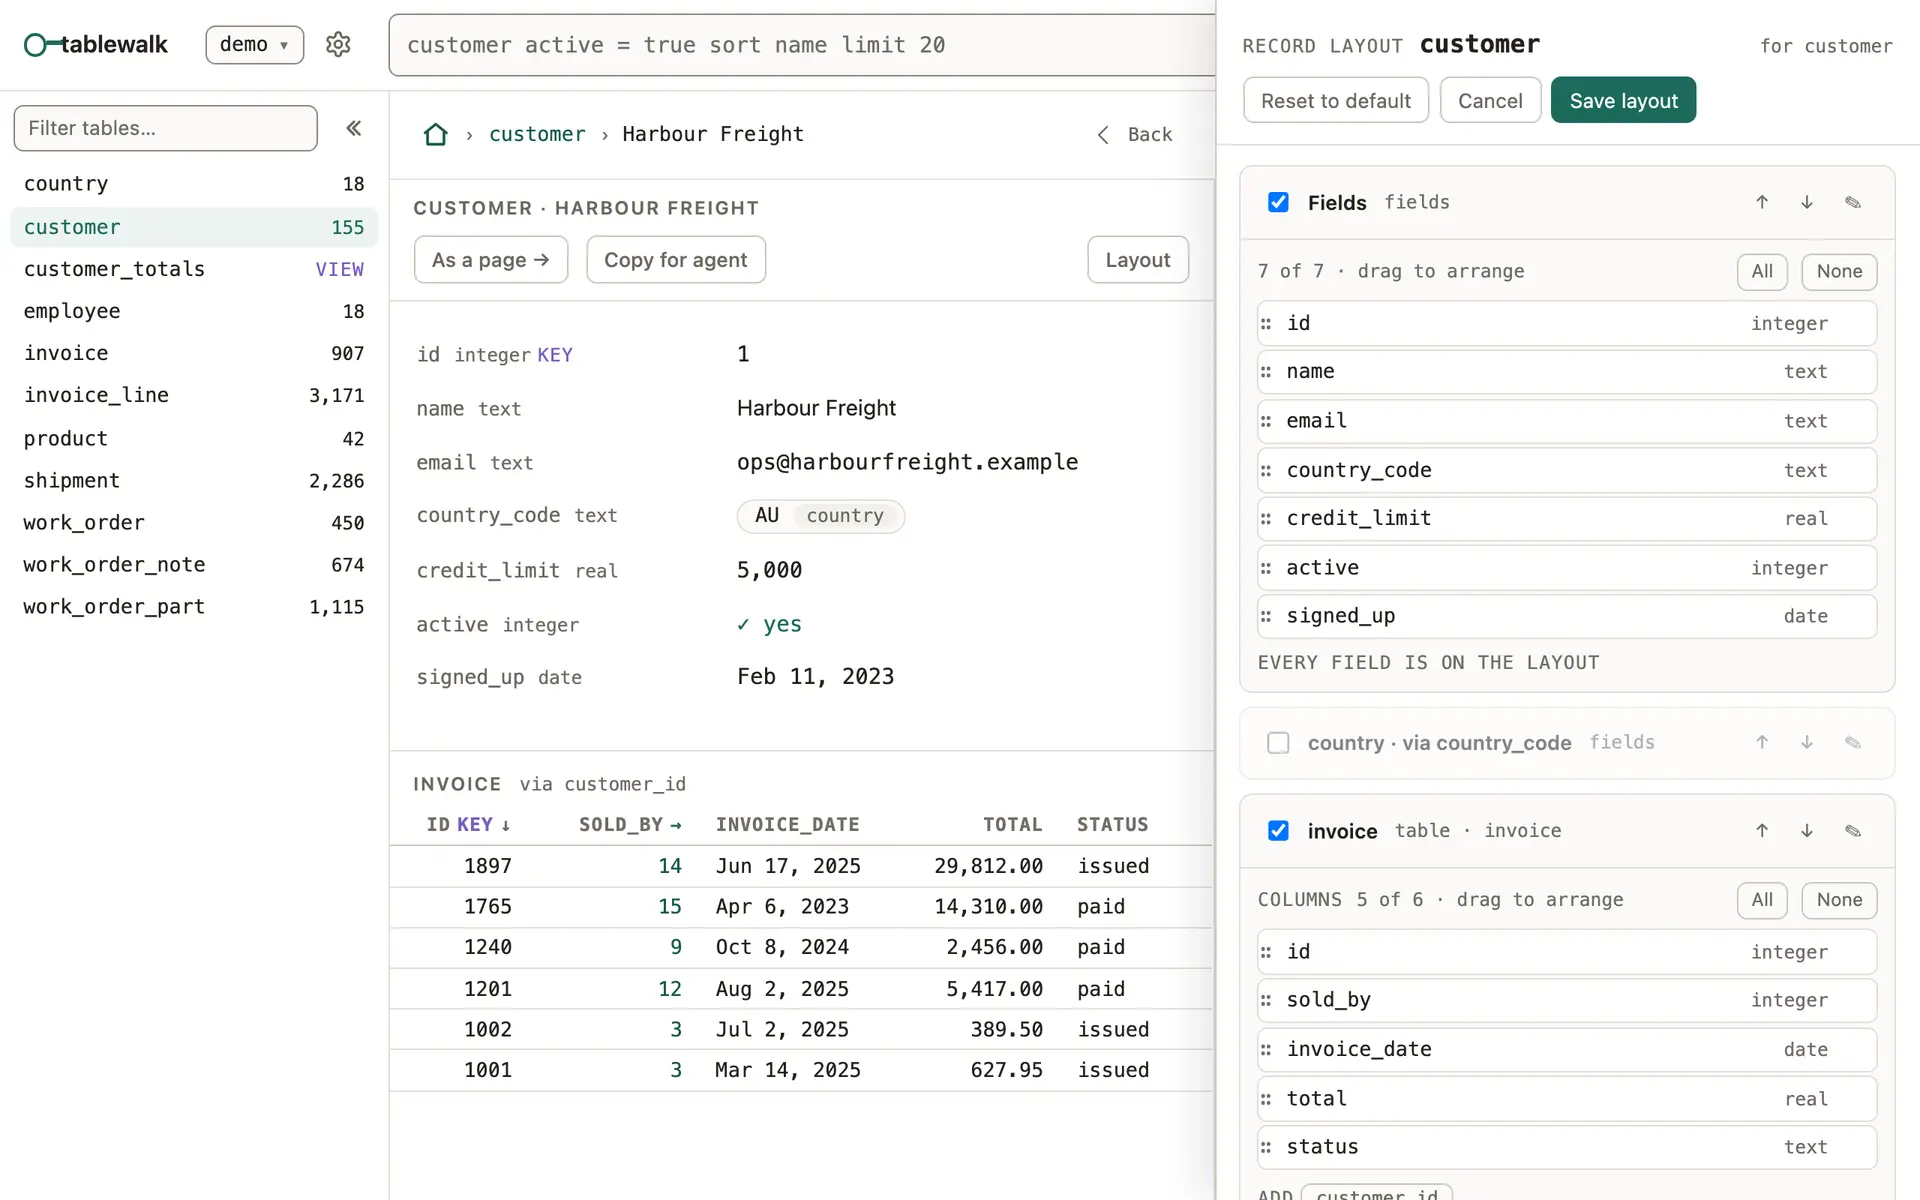
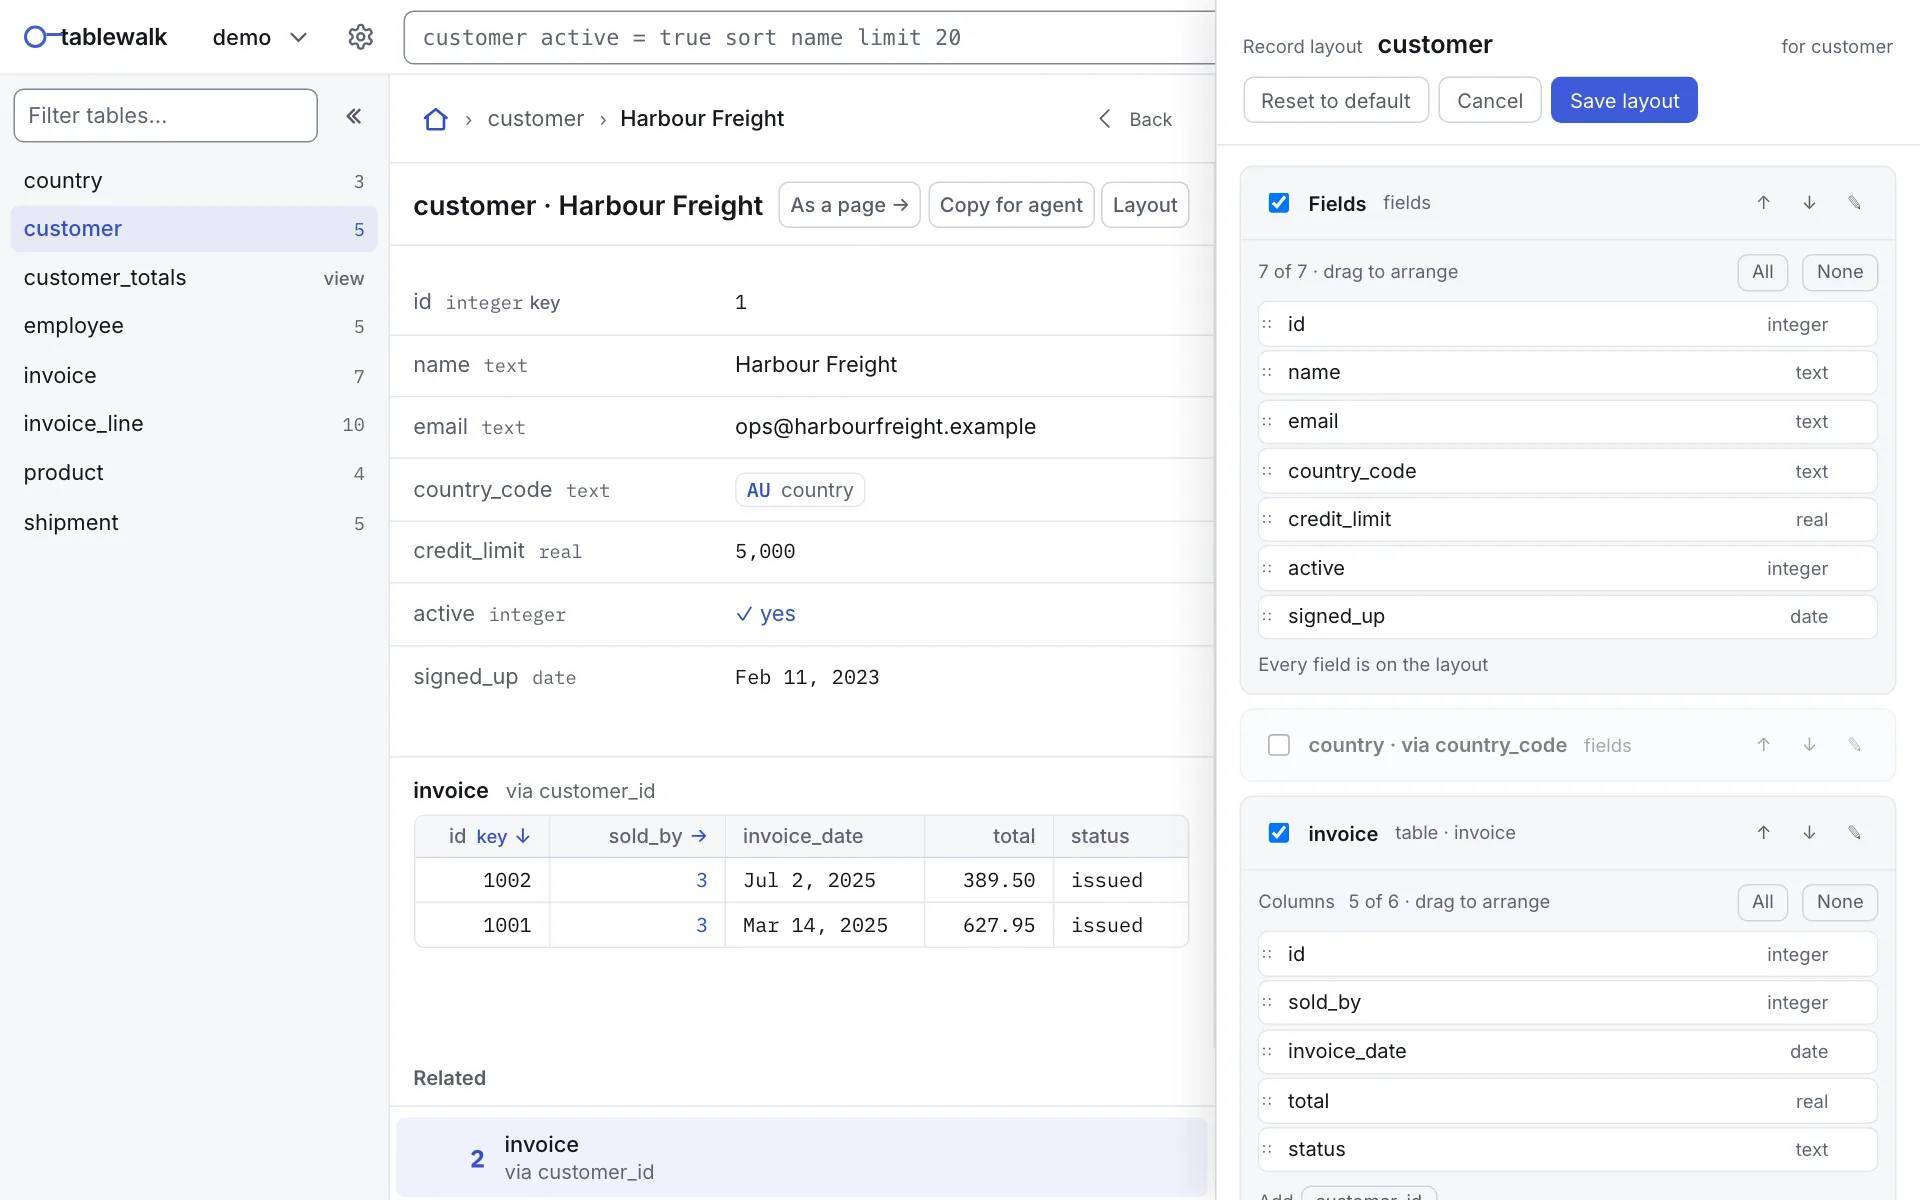
Site: screenshots in the current look

diff --git a/site/src/content/docs/docs/pages.md b/site/src/content/docs/docs/pages.md
@@ -30,7 +30,7 @@ A layout is how the record view arranges every row of one table. On a record, cl
 
 A page gathers one record with what surrounds it: its fields, figures and related lists as tabs. Open one with **As a page →** on a record, or **Page →** on a table. Its address is `/{connection}/@{page}~{id}`, such as `/demo/@customer~1`.
 
-![The customer page for Harbour Freight, with its related lists as tabs](/shots/page.webp)
+![The customer page for Harbour Freight: its fields, then its invoices](/shots/page.webp)
 
 tablewalk suggests a page for any table. **Copy layout** starts your own copy of it, and on a saved page **Layout** changes it. The star pins a page to the home screen.
 
